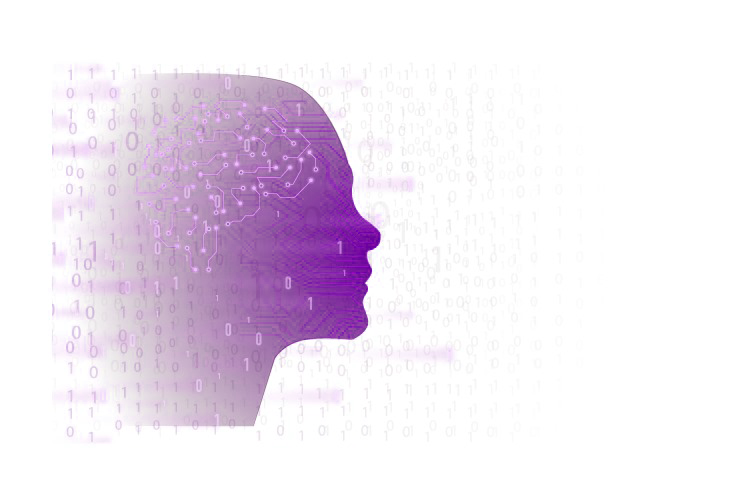
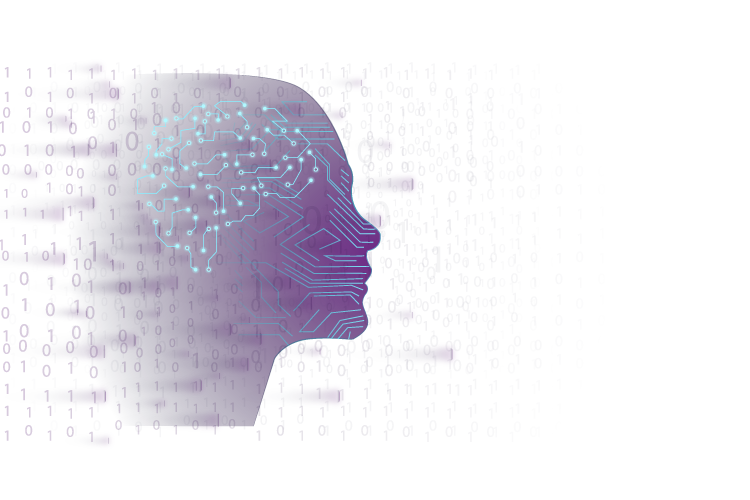
img

diff --git a/assets/css/style.css b/assets/css/style.css
@@ -2702,12 +2702,12 @@ a {
 /* Documentation end  */
 
 .consulting-background-image {
-    background-image: url('../imges/img/codeface.p');
+    background-image: url('../imges/img/codeface.ng');
     /* Replace with your image path */
     background-size: cover;
     background-position: center;
     height: 100%;
-    /* filter: blur(8px); This blurs the image */
+    /* filter: blur(1px);  */
     /* position: absolute; */
     width: 100%;
     z-index: 1;
